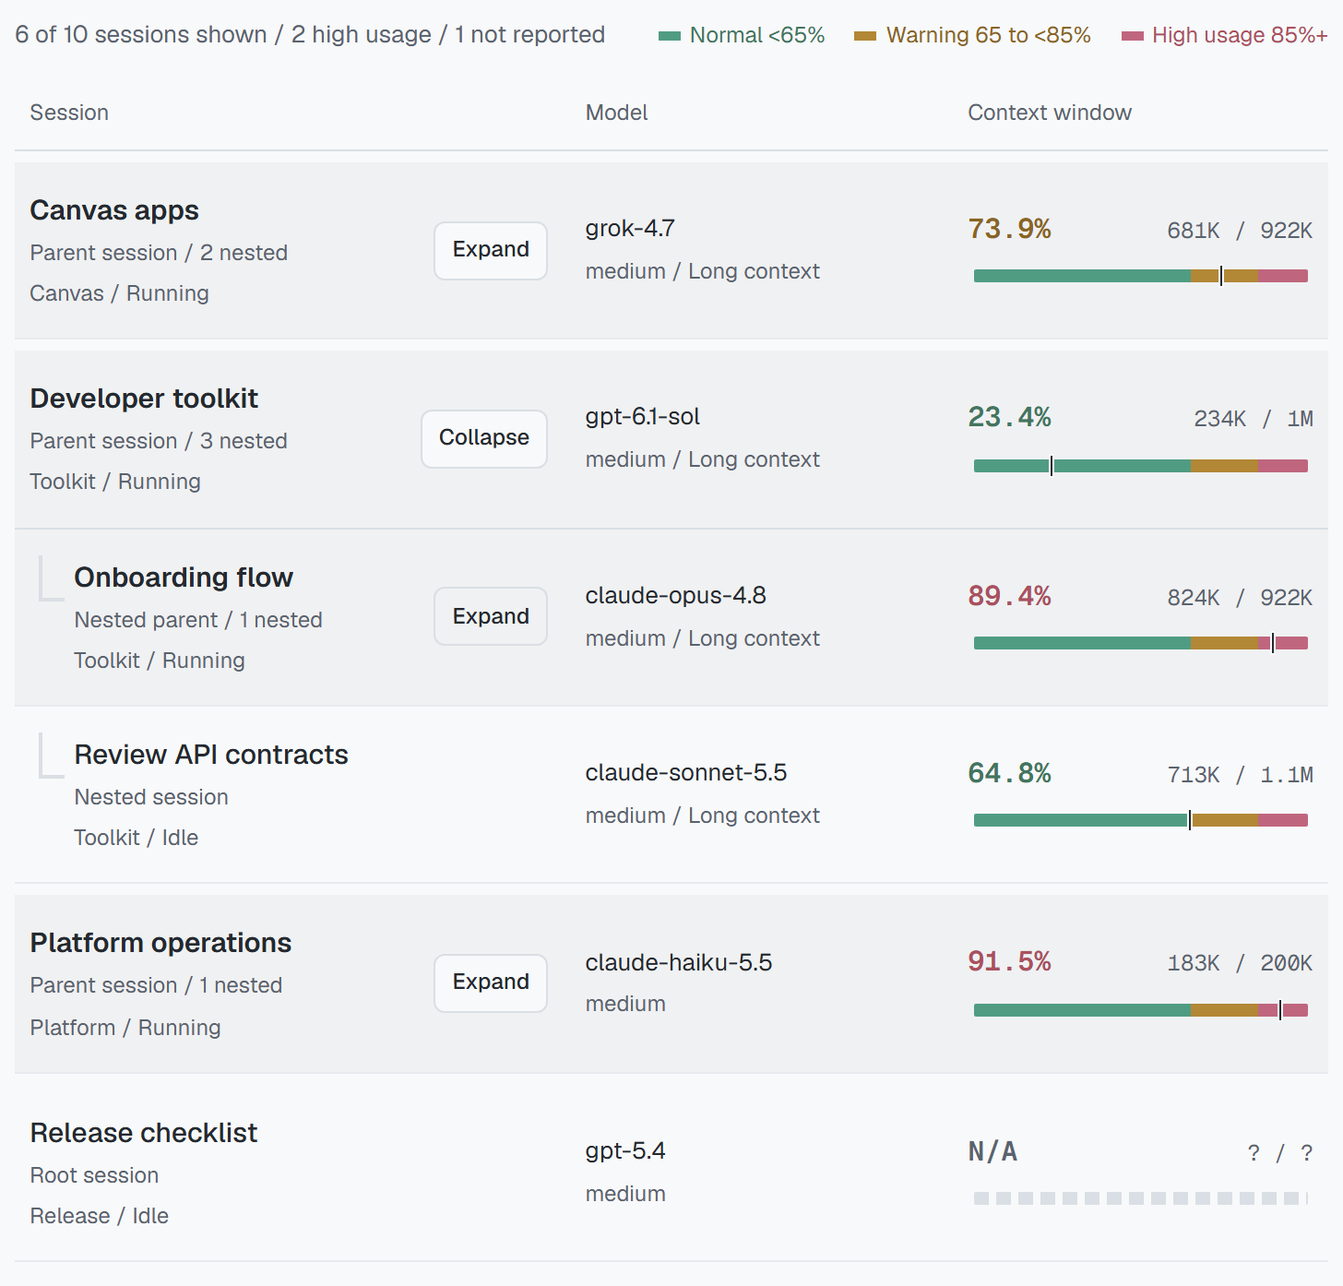
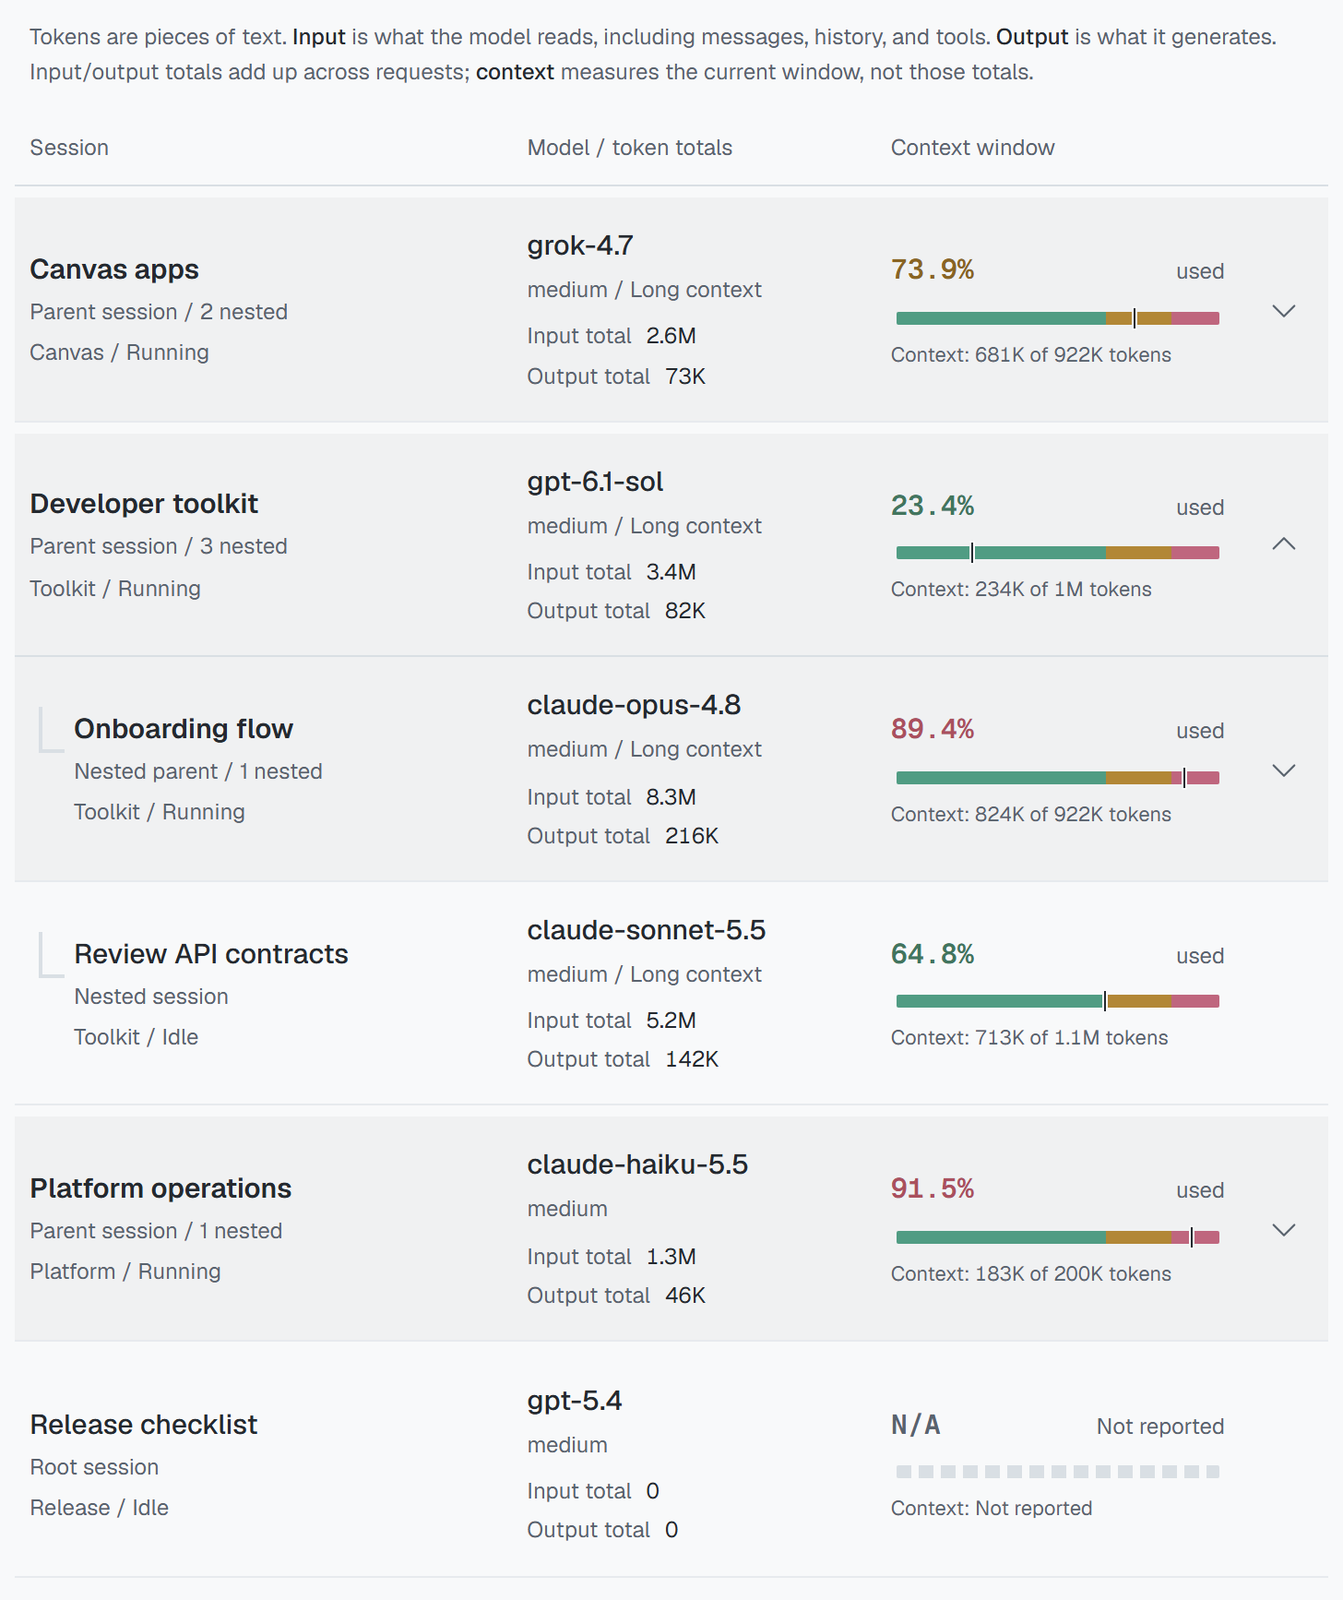
Explain token usage and refine Context Monitor row controls
Add reported input/output totals, clarify context limits, use trailing Phosphor disclosure icons, match model typography, and fix archived-session checkbox states. Refresh synthetic previews and documentation.

Copilot-Session: 00babc8b-3aa2-4873-a4ea-72e82f7c85ed

diff --git a/apps/context-monitor/style.css b/apps/context-monitor/style.css
@@ -53,8 +53,10 @@ input[type="search"], input[type="number"], select { width: 100%; padding: 8px 1
 .sort-choice { width: 220px; flex: 0 0 220px; }
 .sort-help { color: var(--muted); font-size: 12px; margin: 10px 0 0; }
 input::placeholder { color: var(--muted); opacity: 1; }
-.archive { display: flex; gap: 7px; align-items: center; min-height: 40px; color: var(--muted); font-size: 13px; white-space: nowrap; }
-.archive input { accent-color: var(--sage); }
+.archive { display: flex; gap: 7px; align-items: center; min-height: 40px; color: var(--muted); font-size: 13px; white-space: nowrap; cursor: pointer; }
+.archive input { appearance: none; display: grid; place-content: center; flex: 0 0 18px; width: 18px; height: 18px; margin: 0; border: 1.5px solid var(--muted); border-radius: 4px; background: transparent; cursor: pointer; }
+.archive input:checked { background: var(--ink); border-color: var(--ink); }
+.archive input:checked::before { content: ""; width: 5px; height: 9px; border: solid var(--surface); border-width: 0 2px 2px 0; transform: translateY(-1px) rotate(45deg); }
 .threshold-settings { margin-top: 14px; font-size: 13px; }
 .threshold-settings summary { width: fit-content; cursor: pointer; color: var(--muted); }
 .threshold-settings form { margin-top: 12px; }
@@ -76,7 +78,9 @@ input::placeholder { color: var(--muted); opacity: 1; }
 .watch { color: var(--amber); }
 .high { color: var(--rose); }
 .unknown { color: var(--muted); }
-.column-head, .session-row { display: grid; grid-template-columns: minmax(0, 1.5fr) minmax(0, 1fr) minmax(160px, 1fr); gap: 20px; align-items: center; }
+.token-guide { color: var(--muted); font-size: 12px; line-height: 1.6; margin: 12px 8px; }
+.token-guide strong { color: var(--ink); font-weight: 500; }
+.column-head, .session-row { display: grid; grid-template-columns: minmax(0, 1.4fr) minmax(0, 1fr) minmax(175px, 1fr) 32px; gap: 16px; align-items: center; }
 .column-head { border-bottom: 1px solid var(--edge); padding: 10px 8px; font-size: 12px; color: var(--muted); }
 .session { border-bottom: 1px solid color-mix(in srgb, var(--edge) 55%, transparent); }
 .session-row { --indent: min(calc(var(--depth) * 24px), 144px); min-height: 90px; padding: 14px 8px; }
@@ -87,20 +91,34 @@ input::placeholder { color: var(--muted); opacity: 1; }
 .session-children[hidden] { display: none; }
 .session-children > .session:last-child { border-bottom: 0; }
 .session-row:hover { background: var(--hover); }
-.identity { min-width: 0; padding-left: var(--indent); display: flex; flex-wrap: wrap; gap: 8px 12px; align-items: center; position: relative; }
+.identity { min-width: 0; padding-left: var(--indent); position: relative; }
 .identity.nested::before { content: ""; width: 12px; height: 23px; border-left: 2px solid var(--edge); border-bottom: 2px solid var(--edge); position: absolute; left: calc(var(--indent) - 19px); top: 0; }
-.fold { min-height: 32px; flex: 0 0 auto; padding: 4px 9px; font-size: 12px; font-weight: 500; }
+.row-actions { justify-self: end; }
+.icon-button { position: relative; display: grid; place-content: center; width: 32px; height: 32px; min-height: 32px; padding: 7px; border-color: transparent; background: transparent; color: var(--muted); }
+.icon-button:hover, .icon-button:focus-visible { color: var(--ink); background: var(--hover); }
+.disclosure-icon { display: block; width: 18px; height: 18px; background: currentColor; mask: var(--disclosure-image) center / contain no-repeat; }
+.show-children { --disclosure-image: url("/icons/caret-down.svg"); }
+.hide-children { --disclosure-image: url("/icons/caret-up.svg"); }
+.icon-button::after { content: attr(data-tooltip); position: absolute; right: 0; bottom: calc(100% + 6px); padding: 5px 9px; border: 1px solid var(--edge); border-radius: 6px; background: var(--surface); color: var(--ink); font: 12px/1.5 var(--monitor-sans); white-space: nowrap; pointer-events: none; opacity: 0; z-index: 1; }
+.icon-button:not(:disabled):hover::after, .icon-button:not(:disabled):focus-visible::after { opacity: 1; }
 .fold:disabled { cursor: default; }
-.name-block { min-width: 0; flex: 1 1 130px; }
+.name-block { min-width: 0; }
 .hierarchy-label { color: var(--muted); font-size: 12px; margin-top: 2px; }
 .name { display: block; max-width: 100%; overflow: hidden; text-overflow: ellipsis; text-align: left; border: 0; padding: 0; font-size: 15px; font-weight: 500; background: transparent; }
 .name:hover { background: transparent; text-decoration: underline; text-underline-offset: 3px; }
 .meta, .model-note { font-size: 12px; color: var(--muted); margin-top: 3px; overflow: hidden; text-overflow: ellipsis; white-space: nowrap; }
-.model { overflow: hidden; text-overflow: ellipsis; white-space: nowrap; font-size: 13px; }
+.model { overflow: hidden; text-overflow: ellipsis; white-space: nowrap; font: 500 15px/1.6 var(--monitor-sans); }
+.token-totals { display: grid; gap: 2px; margin: 6px 0 0; font-size: 12px; color: var(--muted); }
+.token-totals > div { display: flex; flex-wrap: wrap; gap: 4px 8px; align-items: baseline; }
+.token-totals dt { white-space: nowrap; }
+.token-totals dd { margin: 0; font-variant-numeric: tabular-nums; color: var(--ink); }
 .context { min-width: 0; }
 .numbers { display: flex; justify-content: space-between; gap: 8px; align-items: baseline; font: 12px/1.5 var(--monitor-mono); font-variant-numeric: tabular-nums; }
 .percent { font-size: 15px; font-weight: 600; }
 .tokens { color: var(--muted); white-space: nowrap; }
+.used-label { color: var(--muted); font: 12px/1.5 var(--monitor-sans); }
+.context-count { margin-top: 8px; color: var(--muted); font: 11px/1.5 var(--monitor-sans); }
+.context-count .tokens { font-variant-numeric: tabular-nums; white-space: normal; }
 .line { position: relative; height: 7px; margin: 11px 3px 5px; border-radius: 1px; background: linear-gradient(90deg, var(--strip-sage) 0 var(--watch), var(--strip-amber) var(--watch) var(--high), var(--strip-rose) var(--high) 100%); }
 .marker { position: absolute; left: var(--usage); top: -3px; width: 3px; height: 13px; background: var(--ink); border: 1px solid var(--surface); border-radius: 1px; transform: translateX(-50%); }
 .unknown .line { background: repeating-linear-gradient(90deg, var(--edge) 0 8px, transparent 8px 12px); }
@@ -109,6 +127,7 @@ input::placeholder { color: var(--muted); opacity: 1; }
 .details dl { display: grid; grid-template-columns: repeat(3, minmax(0, 1fr)); gap: 10px 20px; margin: 5px 0 12px; }
 .details dt { color: var(--muted); font-size: 12px; }
 .details dd { margin: 2px 0 0; font: 13px/1.5 var(--monitor-mono); overflow-wrap: anywhere; }
+.metric-help { margin: 4px 0 0; color: var(--muted); font-size: 11px; }
 .sample { font-size: 12px; color: var(--muted); margin: 0; overflow-wrap: anywhere; }
 .notice { padding: 12px 0; color: var(--rose); font-size: 13px; }
 .empty { text-align: center; padding: 45px 16px; color: var(--muted); }
@@ -118,10 +137,12 @@ footer { display: flex; justify-content: space-between; gap: 10px; flex-wrap: wr
 @media (max-width: 680px) {
     main { padding: 20px 16px 16px; }
     .column-head { display: none; }
-    .session-row { --indent: min(calc(var(--depth) * 24px), 96px); grid-template-columns: minmax(0, 1fr) 160px; gap: 6px 12px; }
+    .session-row { --indent: min(calc(var(--depth) * 24px), 72px); grid-template-columns: minmax(0, 1fr) 32px; gap: 10px 12px; }
     .identity { grid-column: 1; }
     .model-block { grid-column: 1; padding-left: var(--indent); }
-    .context { grid-column: 2; grid-row: 1 / 3; }
+    .context { grid-column: 1; padding-left: var(--indent); }
+    .row-actions { grid-column: 2; grid-row: 1 / 4; align-self: end; }
+    .token-totals { grid-template-columns: repeat(2, minmax(0, 1fr)); gap: 8px; }
     .details dl { grid-template-columns: repeat(2, minmax(0, 1fr)); }
     .toolbar { flex-wrap: wrap; gap: 8px; }
     .search { max-width: none; flex-basis: 100%; }
@@ -130,13 +151,14 @@ footer { display: flex; justify-content: space-between; gap: 10px; flex-wrap: wr
 }
 @media (min-width: 681px) and (max-width: 900px) {
     .toolbar { flex-wrap: wrap; }
-    .search { max-width: none; flex-basis: calc(100% - 160px); }
+    .search { max-width: none; flex-basis: 100%; }
     .refresh-choice { margin-left: 0; }
 }
 @media (max-width: 420px) {
     .legend { flex-wrap: wrap; gap: 6px 12px; }
 }
-@media (max-width: 390px) {
-    .session-row { grid-template-columns: minmax(0, 1fr); }
-    .context { grid-column: 1; grid-row: auto; padding-left: var(--indent); }
+@media (forced-colors: active) {
+    .archive input { appearance: auto; background: revert; border: revert; }
+    .archive input::before { display: none; }
+    .disclosure-icon { background: ButtonText; }
 }

diff --git a/apps/context-monitor/app.js b/apps/context-monitor/app.js
@@ -1,4 +1,4 @@
-import { visibleTree, contextUsage, validateThresholds, DEFAULT_THRESHOLDS, SORT_PRESETS, isContextSort } from "./model.mjs";
+import { visibleTree, contextUsage, validateThresholds, DEFAULT_THRESHOLDS, SORT_PRESETS, isContextSort, tokenCount } from "./model.mjs";
 
 const token = document.querySelector('meta[name="monitor-token"]').content;
 const rows = document.getElementById("sessions");
@@ -138,30 +138,51 @@ function sessionRow(session) {
         session.archived ? "Archived" : session.running === null ? "Status not reported" : session.running ? "Running" : "Idle",
     ].join(" / ")));
     identity.append(nameBlock);
+    const actions = element("div", "row-actions");
     if (isParent) {
-        const fold = element("button", "fold", isOpen ? "Collapse" : "Expand");
+        const fold = element("button", "fold icon-button");
         fold.type = "button";
         fold.dataset.action = "fold";
         fold.dataset.id = session.id;
-        fold.setAttribute("aria-label", `${isOpen ? "Collapse" : "Expand"} nested sessions under ${session.name}`);
+        const label = `${isOpen ? "Hide" : "Show"} nested sessions`;
+        fold.setAttribute("aria-label", `${label} for ${session.name}`);
         fold.setAttribute("aria-expanded", String(isOpen));
         fold.setAttribute("aria-controls", `children-${session.id}`);
         fold.disabled = Boolean(search.value.trim());
-        fold.title = search.value.trim() ? "Clear search to expand or collapse this branch." : `${session.descendantCount} nested sessions`;
-        identity.append(fold);
+        fold.title = search.value.trim() ? "Clear search to show or hide nested sessions." : `${label} (${session.descendantCount})`;
+        fold.dataset.tooltip = fold.title;
+        const icon = element("span", `disclosure-icon ${isOpen ? "hide-children" : "show-children"}`);
+        icon.setAttribute("aria-hidden", "true");
+        fold.append(icon);
+        actions.append(fold);
     }
     const modelBlock = element("div", "model-block");
     const model = element("div", "model", session.model || "Model not reported");
     model.title = session.model || "Model not reported";
     modelBlock.append(model, element("div", "model-note",
         [session.reasoningEffort, session.contextTier === "long_context" ? "Long context" : session.contextTier].filter(Boolean).join(" / ")));
+    const usage = {
+        input: tokenCount(session.usage?.input),
+        output: tokenCount(session.usage?.output),
+    };
+    const totals = element("dl", "token-totals");
+    for (const [label, value, explanation] of [
+        ["Input total", usage.input, "Tokens the model has read across this session's requests, not the current context size."],
+        ["Output total", usage.output, "Tokens the model has generated across this session's requests, not the reply limit."],
+    ]) {
+        const pair = element("div");
+        pair.title = explanation;
+        pair.append(element("dt", "", label), element("dd", "", value === null ? "Not reported" : compact(value)));
+        totals.append(pair);
+    }
+    modelBlock.append(totals);
     const context = element("div", `context ${session.context.level}`);
     const { used, capacity, percent, level } = session.context;
     context.setAttribute("aria-label", percent === null ? "Context usage not reported"
         : `${levelLabel[level]} context: ${percent.toFixed(1)} percent, ${exact(used)} of ${exact(capacity)} tokens`);
     const numbers = element("div", "numbers");
     numbers.append(element("span", "percent", percent === null ? "N/A" : `${percent.toFixed(1)}%`),
-        element("span", "tokens", `${compact(used)} / ${compact(capacity)}`));
+        element("span", "used-label", percent === null ? "Not reported" : "used"));
     const line = element("div", "line");
     line.setAttribute("aria-hidden", "true");
     if (percent !== null) {
@@ -172,21 +193,40 @@ function sessionRow(session) {
         line.title = `Normal below ${thresholds.watch}%, warning below ${thresholds.high}%, high usage from ${thresholds.high}%. Current usage: ${percent.toFixed(1)}%.`;
         line.append(element("span", "marker"));
     }
-    context.append(numbers, line);
-    row.append(identity, modelBlock, context);
+    const contextCount = element("div", "context-count");
+    const contextText = used !== null && capacity !== null && capacity > 0
+        ? `${compact(used)} of ${compact(capacity)} tokens`
+        : used !== null ? `${compact(used)} used; capacity not reported`
+        : capacity !== null && capacity > 0 ? `Not reported; ${compact(capacity)} capacity`
+        : "Not reported";
+    contextCount.append(element("span", "", "Context: "),
+        element("span", "tokens", contextText));
+    contextCount.title = used === null || capacity === null
+        ? "The app has not reported a complete context reading."
+        : `${exact(used)} tokens currently in the input window, out of ${exact(capacity)} tokens of input capacity.`;
+    context.append(numbers, line, contextCount);
+    row.append(identity, modelBlock, context, actions);
     container.append(row);
     const details = element("div", "details");
     details.id = `details-${session.id}`;
     details.hidden = !expanded.has(session.id);
     if (!details.hidden) {
         const list = element("dl");
-        for (const [label, value] of [
-            ["Current context", used], ["Input capacity", capacity], ["Output limit", session.breakdown.outputLimit],
-            ["System", session.breakdown.system], ["Conversation", session.breakdown.conversation],
-            ["Tool definitions", session.breakdown.tools], ["MCP tools", session.breakdown.mcp], ["Buffer", session.breakdown.buffer],
+        for (const [label, value, explanation] of [
+            ["Input total", usage.input, "Tokens read across requests in this session."],
+            ["Output total", usage.output, "Tokens generated across requests in this session."],
+            ["Current context", used, "Tokens currently in the model's input window."],
+            ["Input window limit", capacity, "Maximum tokens the input window can hold."],
+            ["Reply output limit", session.breakdown.outputLimit, "Maximum tokens the model can generate in one response."],
+            ["System", session.breakdown.system, "System instructions in the current window."],
+            ["Conversation", session.breakdown.conversation, "Conversation content in the current window."],
+            ["Tool definitions", session.breakdown.tools, "Tool descriptions supplied to the model."],
+            ["MCP tools", session.breakdown.mcp, "Reported MCP tool portion, when available."],
+            ["Buffer", session.breakdown.buffer, "Reported reserved context space, when available."],
         ]) {
             const pair = element("div");
-            pair.append(element("dt", "", label), element("dd", "", exact(value)));
+            pair.append(element("dt", "", label), element("dd", "", exact(value)),
+                element("p", "metric-help", explanation));
             list.append(pair);
         }
         details.append(list, element("p", "sample", session.sampledAt

diff --git a/apps/context-monitor/index.html b/apps/context-monitor/index.html
@@ -18,7 +18,7 @@
         </header>
         <div class="toolbar">
             <div class="search"><label for="search">Find a session</label><input id="search" type="search" placeholder="Session, project, or model" autocomplete="off"></div>
-            <label class="archive"><input id="archived" type="checkbox"> Include archived</label>
+            <label class="archive"><input id="archived" type="checkbox"> Include archived sessions</label>
             <div class="refresh-choice">
                 <label for="auto-refresh">Auto-refresh</label>
                 <select id="auto-refresh">
@@ -66,7 +66,8 @@
         </div>
         <p id="error" class="notice" role="alert" hidden></p>
         <p id="warnings" class="notice" hidden></p>
-        <div class="column-head" aria-hidden="true"><span>Session</span><span>Model</span><span>Context window</span></div>
+        <p class="token-guide" id="token-guide">Tokens are pieces of text. <strong>Input</strong> is what the model reads, including messages, history, and tools. <strong>Output</strong> is what it generates. Input/output totals add up across requests; <strong>context</strong> measures the current window, not those totals.</p>
+        <div class="column-head" aria-hidden="true"><span>Session</span><span>Model / token totals</span><span>Context window</span><span></span></div>
         <div id="sessions" aria-label="Session hierarchy" aria-busy="true">
             <div class="skeleton"></div><div class="skeleton"></div><div class="skeleton"></div>
         </div>

diff --git a/apps/context-monitor/README.md b/apps/context-monitor/README.md
@@ -1,6 +1,6 @@
 # Context Monitor
 
-View your GitHub Copilot app sessions, models, and context usage in one canvas. Expand parent sessions, sort by usage, and choose when the view refreshes.
+View your GitHub Copilot app sessions, models, and context usage in one canvas. Show a parent's nested sessions, compare token usage, and choose when the view refreshes.
 
 <img src="screenshot.png" alt="Context Monitor showing parent and nested sessions, different models, and context usage" width="640">
 
@@ -21,18 +21,22 @@ Review the installation approval. Personal/user scope makes the canvas available
 
 | Control | What it does |
 | --- | --- |
-| Expand / Collapse | Show or hide a parent's nested sessions. Top-level parents start collapsed. |
+| Parent arrow icon | Show or hide nested sessions. Hover or focus the icon for its description; top-level parents start collapsed. |
 | Find a session | Search by name, project, model, or session ID. Matching children keep their parents visible. |
 | Sort sessions | Choose recent activity (default), most/least context used, highest/lowest percentage used, largest context window, or name A-Z/Z-A. |
 | Auto-refresh | Choose 5 seconds (default), 10 seconds, 30 seconds, 1 minute, 5 minutes, or Off. |
 | Usage warnings | Set the Warning and High usage percentages, then Apply. Reset defaults restores 65% / 85%. |
 | Session name | Show exact token counts, limits, and available breakdowns. |
-| Include archived | Include archived sessions, which are hidden initially. |
+| Include archived sessions | Include archived sessions, which are hidden initially. An empty checkbox means they are excluded. |
 | Refresh | Read the latest saved app metadata immediately. |
 
 Sorting keeps parent groups together. Context-based sorts rank each group by its highest or lowest matching value and expand it so relevant children are visible. Missing values go last. Auto-refresh preserves your sort and expansion choices, pauses while the canvas is hidden, and never overlaps reads. Off leaves manual Refresh available.
 
 Usage warning levels must be whole percentages from 0 to 100, with Warning below High usage. They are saved across views. The colored strip shows these ranges; the vertical marker shows actual usage. A fully colored strip does not mean the context window is full. Unknown usage is **N/A**, with a neutral dashed strip and no marker.
+
+**What the token numbers mean.** Tokens are pieces of text that the model processes. **Input total** counts the tokens the model has read across the session's requests, including messages, history, and tools. **Output total** counts the tokens it has generated. Both appear in each compact row, including short sessions, and are the app's reported totals.
+
+**Context** is different: it shows the tokens currently in the input window against that window's capacity. The percentage and strip use this reading, not the session's cumulative input/output totals. Select a session name for exact counts and explanations of **Input window limit** and **Reply output limit**. The latter is the maximum output for one response, not the amount already generated. Missing totals say **Not reported**; an actual zero remains zero.
 
 ## Data
 
@@ -56,11 +60,13 @@ node --test monitor.test.mjs
 
 Reload extensions after editing an installed copy. The repository's `.github/extensions/context-monitor/extension.mjs` entry loads the app for local development.
 
-`extension.mjs` wires the canvas and snapshot/settings actions. `source.mjs` reads app metadata; `model.mjs` handles usage, hierarchy, search, and sorting; `settings.mjs` saves warning preferences. `server.mjs` serves `index.html`, `app.js`, `style.css`, and local fonts.
+`extension.mjs` wires the canvas and snapshot/settings actions. `source.mjs` reads app metadata; `model.mjs` handles usage, hierarchy, search, and sorting; `settings.mjs` saves warning preferences. `server.mjs` serves `index.html`, `app.js`, `style.css`, local fonts, and icons.
 
 Tests cover synthetic SQLite data, read-only access, hierarchy, sorting, unknown telemetry, warning validation and conflicts, HTTP request checks, and refresh timing.
 
 Bundled [Geist fonts](https://github.com/vercel/geist-font) use the SIL Open Font License 1.1 ([license](fonts/LICENSE.txt)). No font CDN requests are needed.
+
+The trailing Show/Hide nested sessions icons use [Phosphor Icons](https://github.com/phosphor-icons/core) under MIT ([license](icons/LICENSE)), matching the icon family used in Thoughts.
 
 ## Publish
 
